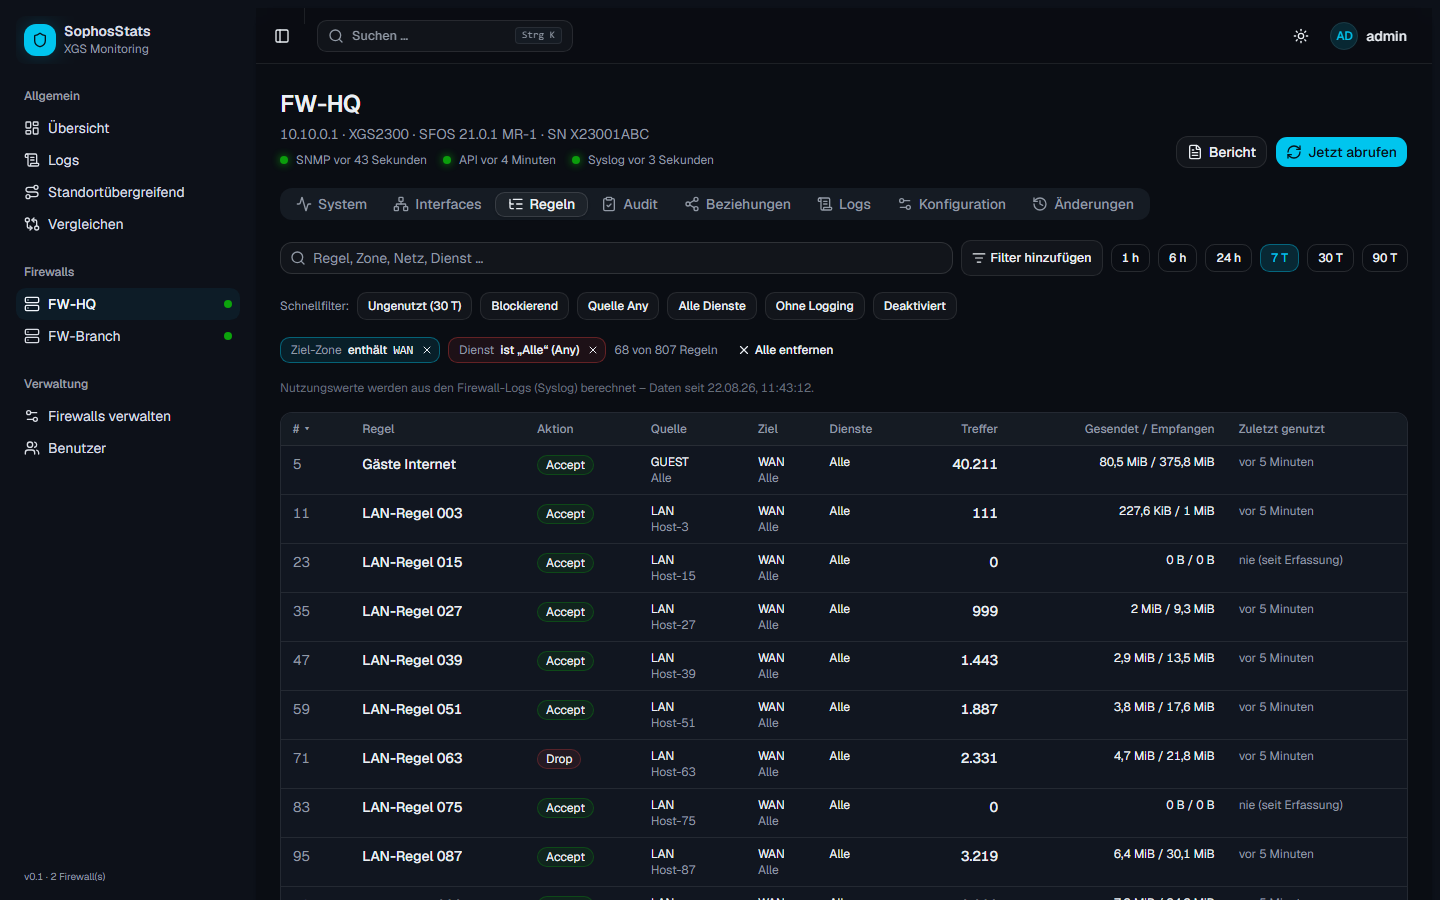
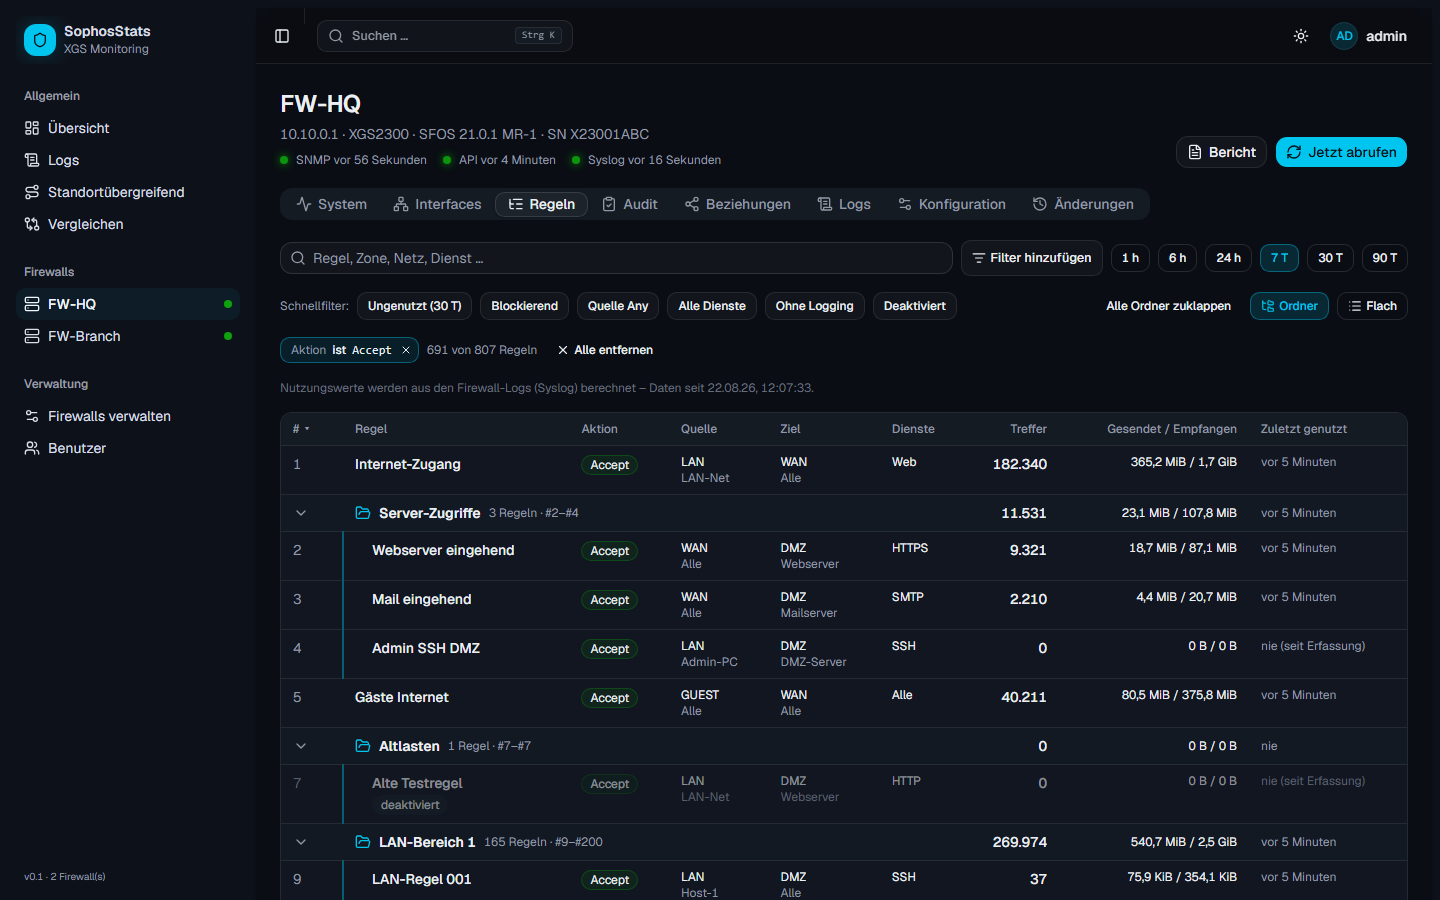
Regeln: Regelgruppen als aufklappbare Ordner
- Ordneransicht wie in der Sophos-Oberfläche mit Summen (Treffer, Bytes,
  zuletzt genutzt) je Ordner; einzeln oder alle auf-/zuklappbar
- Umschalter Ordner/Flach, Wahl wird pro Nutzer im Browser gemerkt
- Sortierung nach Nutzung sortiert innerhalb der Ordner, Ordner nach Summe

diff --git a/frontend/src/pages/firewall/RulesTab.tsx b/frontend/src/pages/firewall/RulesTab.tsx
@@ -1,10 +1,12 @@
 import { useQuery } from "@tanstack/react-query";
-import { Search, X } from "lucide-react";
+import { ChevronRight, Folder, FolderOpen, FolderTree, List, Search, X } from "lucide-react";
 import { Fragment, useMemo, useState } from "react";
 import { useSearchParams } from "react-router";
 import { AddRuleFilter, matchRule, PRESETS, RuleFilterChip, type RuleFilter } from "@/components/RuleFilters";
 import { Button } from "@/components/ui/button";
 import { Input } from "@/components/ui/input";
+import { ToggleGroup, ToggleGroupItem } from "@/components/ui/toggle-group";
+import { cn } from "@/lib/utils";
 import { TimeChart, type Row } from "../../components/TimeChart";
 import { Card, Empty, ErrorBox, Loading, Pill, RangeSelect } from "../../components/ui";
 import { api } from "../../lib/api";
@@ -28,6 +30,24 @@ function parseFilters(raw: string | null): RuleFilter[] {
 export function RulesTab({ fwId }: { fwId: number }) {
   const [hours, setHours] = useState(168);
   const [sort, setSort] = useState<SortKey>("position");
+  // Regelgruppen (Ordner in der Sophos-Oberfläche) als aufklappbare Abschnitte
+  // Ansicht pro Nutzer im Browser merken (Ordner oder flache Liste)
+  const [folders, setFoldersState] = useState(() => {
+    try {
+      return localStorage.getItem("rules.view") !== "flat";
+    } catch {
+      return true;
+    }
+  });
+  const setFolders = (v: boolean) => {
+    setFoldersState(v);
+    try {
+      localStorage.setItem("rules.view", v ? "folders" : "flat");
+    } catch {
+      /* Speicher nicht verfügbar – gilt dann nur für diese Sitzung */
+    }
+  };
+  const [collapsed, setCollapsed] = useState<Set<string>>(new Set());
   // Suche und Filter in der URL – teilbar, bleiben beim Tab-Wechsel erhalten
   const [params, setParams] = useSearchParams();
   const search = params.get("rq") ?? "";
@@ -89,6 +109,122 @@ export function RulesTab({ fwId }: { fwId: number }) {
     </th>
   );
 
+  const grouped = folders;
+  const NO_FOLDER = "Ohne Ordner";
+  const segments: { group: string | null; rules: Rule[] }[] = [];
+  if (sort === "position") {
+    // Reihenfolge wie auf der Firewall: aufeinanderfolgende Regeln derselben Gruppe bilden einen Ordner
+    for (const r of rules) {
+      const last = segments.at(-1);
+      if (r.group && last && last.group === r.group) last.rules.push(r);
+      else segments.push({ group: r.group ?? null, rules: [r] });
+    }
+  } else {
+    // Nach Nutzung: innerhalb der Ordner sortiert, Ordner nach ihrer Summe; Regeln ohne Gruppe in "Ohne Ordner"
+    const byGroup = new Map<string, Rule[]>();
+    for (const r of rules) byGroup.set(r.group ?? NO_FOLDER, [...(byGroup.get(r.group ?? NO_FOLDER) ?? []), r]);
+    const score = (list: Rule[]) =>
+      sort === "hits"
+        ? list.reduce((a, r) => a + (r.usage?.hits ?? 0), 0)
+        : sort === "bytes"
+          ? list.reduce((a, r) => a + totalBytes(r), 0)
+          : Math.max(0, ...list.map((r) => (r.last_seen_ever ? new Date(r.last_seen_ever).getTime() : 0)));
+    for (const [group, list] of [...byGroup].sort((a, b) => score(b[1]) - score(a[1]))) segments.push({ group, rules: list });
+  }
+  const groupNames = [...new Set(segments.filter((g) => g.group).map((g) => g.group!))];
+  const toggleGroup = (g: string) =>
+    setCollapsed((prev) => {
+      const next = new Set(prev);
+      if (next.has(g)) next.delete(g);
+      else next.add(g);
+      return next;
+    });
+
+  const renderRule = (r: Rule, nested: boolean) => (
+                  <Fragment key={`${r.group ?? ""}|${r.name}`}>
+                    <tr
+                      className={`cursor-pointer border-t border-border align-top hover:bg-muted ${r.enabled ? "" : "opacity-55"}`}
+                      onClick={() => setOpen(open === r.name ? null : r.name)}
+                    >
+                      <td className="px-3 py-2 text-muted-foreground">{r.position + 1}</td>
+                      <td className={cn("max-w-64 px-3 py-2", nested && "border-l-2 border-l-primary/40 pl-7")}>
+                        <div className="font-medium">{r.name}</div>
+                        <div className="flex flex-wrap gap-1 pt-0.5">
+                          {r.group && !nested && <Pill>{r.group}</Pill>}
+                          {!r.enabled && <Pill>deaktiviert</Pill>}
+                          {r.enabled && !r.log_traffic && <Pill>Logging aus</Pill>}
+                          {r.policy_type && r.policy_type !== "Network" && <Pill>{r.policy_type}</Pill>}
+                        </div>
+                      </td>
+                      <td className="px-3 py-2">
+                        <Pill tone={r.action === "Accept" ? "good" : r.action ? "critical" : "neutral"}>{r.action ?? "–"}</Pill>
+                      </td>
+                      <td className="max-w-48 px-3 py-2 text-xs">
+                        <div>{list(r.source_zones)}</div>
+                        <div className="text-muted-foreground">{list(r.source_networks)}</div>
+                      </td>
+                      <td className="max-w-48 px-3 py-2 text-xs">
+                        <div>{list(r.destination_zones)}</div>
+                        <div className="text-muted-foreground">{list(r.destination_networks)}</div>
+                      </td>
+                      <td className="max-w-40 px-3 py-2 text-xs">{list(r.services)}</td>
+                      <td className="px-3 py-2 text-right font-medium">{fmtNumber(r.usage?.hits ?? 0)}</td>
+                      <td className="whitespace-nowrap px-3 py-2 text-right text-xs">
+                        {fmtBytes(r.usage?.sent_bytes ?? 0)} / {fmtBytes(r.usage?.recv_bytes ?? 0)}
+                      </td>
+                      <td className="whitespace-nowrap px-3 py-2 text-xs text-muted-foreground" title={fmtDate(r.last_seen_ever)}>
+                        {r.last_seen_ever ? fmtRelative(r.last_seen_ever) : "nie (seit Erfassung)"}
+                      </td>
+                    </tr>
+                    {open === r.name && (
+                      <tr className="border-t border-border bg-muted">
+                        <td colSpan={9} className="p-3">
+                          {r.rule_id == null ? (
+                            <div className="text-sm text-muted-foreground/70">
+                              Für diese Regel wurden noch keine Logs empfangen – Nutzungsdetails erscheinen, sobald Traffic geloggt wird.
+                            </div>
+                          ) : (
+                            <RuleDetail fwId={fwId} ruleId={r.rule_id} hours={hours} />
+                          )}
+                        </td>
+                      </tr>
+                    )}
+                  </Fragment>
+  );
+
+  const renderSegment = (seg: { group: string | null; rules: Rule[] }, i: number) => {
+    if (!seg.group) return seg.rules.map((r) => renderRule(r, false));
+    const isOpen = !collapsed.has(seg.group);
+    const sum = (f: (r: Rule) => number) => seg.rules.reduce((a, r) => a + f(r), 0);
+    const last = seg.rules.map((r) => r.last_seen_ever).filter(Boolean).sort().at(-1);
+    const Icon = isOpen ? FolderOpen : Folder;
+    return (
+      <Fragment key={`seg-${seg.group}-${i}`}>
+        <tr className="cursor-pointer border-t border-border bg-muted/50 hover:bg-muted" onClick={() => toggleGroup(seg.group!)}>
+          <td className="px-3 py-2 text-muted-foreground">
+            <ChevronRight className={cn("size-4 transition-transform", isOpen && "rotate-90")} />
+          </td>
+          <td colSpan={5} className="px-3 py-2">
+            <span className="flex items-center gap-2 font-semibold">
+              <Icon className="size-4 text-primary" />
+              {seg.group}
+              <span className="text-xs font-normal text-muted-foreground">
+                {seg.rules.length} Regel{seg.rules.length === 1 ? "" : "n"}
+                {sort === "position" && ` · #${seg.rules[0].position + 1}–#${seg.rules.at(-1)!.position + 1}`}
+              </span>
+            </span>
+          </td>
+          <td className="px-3 py-2 text-right font-medium tabular-nums">{fmtNumber(sum((r) => r.usage?.hits ?? 0))}</td>
+          <td className="whitespace-nowrap px-3 py-2 text-right text-xs tabular-nums">
+            {fmtBytes(sum((r) => r.usage?.sent_bytes ?? 0))} / {fmtBytes(sum((r) => r.usage?.recv_bytes ?? 0))}
+          </td>
+          <td className="whitespace-nowrap px-3 py-2 text-xs text-muted-foreground">{last ? fmtRelative(last) : "nie"}</td>
+        </tr>
+        {isOpen && seg.rules.map((r) => renderRule(r, true))}
+      </Fragment>
+    );
+  };
+
   return (
     <div className="space-y-4">
       <div className="flex flex-wrap items-center gap-2">
@@ -106,7 +242,35 @@ export function RulesTab({ fwId }: { fwId: number }) {
             {p.label}
           </Button>
         ))}
+        <div className="ml-auto flex items-center gap-2">
+          {grouped && groupNames.length > 0 && (
+            <Button
+              variant="ghost"
+              size="sm"
+              className="h-7 text-xs"
+              onClick={() => setCollapsed(collapsed.size ? new Set() : new Set(groupNames))}
+            >
+              {collapsed.size ? "Alle Ordner aufklappen" : "Alle Ordner zuklappen"}
+            </Button>
+          )}
+          <ToggleGroup
+            type="single"
+            variant="outline"
+            size="sm"
+            value={folders ? "folders" : "flat"}
+            onValueChange={(v) => {
+              if (!v) return;
+              setFolders(v === "folders");
+            }}
+          >
+            <ToggleGroupItem value="folders" className="px-2.5 text-xs"><FolderTree className="size-3.5" /> Ordner</ToggleGroupItem>
+            <ToggleGroupItem value="flat" className="px-2.5 text-xs"><List className="size-3.5" /> Flach</ToggleGroupItem>
+          </ToggleGroup>
+        </div>
       </div>
+      {folders && sort !== "position" && (
+        <p className="text-xs text-muted-foreground">Sortiert innerhalb der Ordner; Ordner nach ihrer Summe. Nach „#“ sortieren für die Reihenfolge der Firewall.</p>
+      )}
       {(filters.length > 0 || search) && (
         <div className="flex flex-wrap items-center gap-2">
           {filters.map((f, i) => (
@@ -146,57 +310,7 @@ export function RulesTab({ fwId }: { fwId: number }) {
               </tr>
             </thead>
             <tbody>
-              {rules.map((r) => (
-                <Fragment key={r.name}>
-                  <tr
-                    className={`cursor-pointer border-t border-border align-top hover:bg-muted ${r.enabled ? "" : "opacity-55"}`}
-                    onClick={() => setOpen(open === r.name ? null : r.name)}
-                  >
-                    <td className="px-3 py-2 text-muted-foreground">{r.position + 1}</td>
-                    <td className="max-w-64 px-3 py-2">
-                      <div className="font-medium">{r.name}</div>
-                      <div className="flex flex-wrap gap-1 pt-0.5">
-                        {r.group && <Pill>{r.group}</Pill>}
-                        {!r.enabled && <Pill>deaktiviert</Pill>}
-                        {r.enabled && !r.log_traffic && <Pill>Logging aus</Pill>}
-                        {r.policy_type && r.policy_type !== "Network" && <Pill>{r.policy_type}</Pill>}
-                      </div>
-                    </td>
-                    <td className="px-3 py-2">
-                      <Pill tone={r.action === "Accept" ? "good" : r.action ? "critical" : "neutral"}>{r.action ?? "–"}</Pill>
-                    </td>
-                    <td className="max-w-48 px-3 py-2 text-xs">
-                      <div>{list(r.source_zones)}</div>
-                      <div className="text-muted-foreground">{list(r.source_networks)}</div>
-                    </td>
-                    <td className="max-w-48 px-3 py-2 text-xs">
-                      <div>{list(r.destination_zones)}</div>
-                      <div className="text-muted-foreground">{list(r.destination_networks)}</div>
-                    </td>
-                    <td className="max-w-40 px-3 py-2 text-xs">{list(r.services)}</td>
-                    <td className="px-3 py-2 text-right font-medium">{fmtNumber(r.usage?.hits ?? 0)}</td>
-                    <td className="whitespace-nowrap px-3 py-2 text-right text-xs">
-                      {fmtBytes(r.usage?.sent_bytes ?? 0)} / {fmtBytes(r.usage?.recv_bytes ?? 0)}
-                    </td>
-                    <td className="whitespace-nowrap px-3 py-2 text-xs text-muted-foreground" title={fmtDate(r.last_seen_ever)}>
-                      {r.last_seen_ever ? fmtRelative(r.last_seen_ever) : "nie (seit Erfassung)"}
-                    </td>
-                  </tr>
-                  {open === r.name && (
-                    <tr className="border-t border-border bg-muted">
-                      <td colSpan={9} className="p-3">
-                        {r.rule_id == null ? (
-                          <div className="text-sm text-muted-foreground/70">
-                            Für diese Regel wurden noch keine Logs empfangen – Nutzungsdetails erscheinen, sobald Traffic geloggt wird.
-                          </div>
-                        ) : (
-                          <RuleDetail fwId={fwId} ruleId={r.rule_id} hours={hours} />
-                        )}
-                      </td>
-                    </tr>
-                  )}
-                </Fragment>
-              ))}
+              {grouped ? segments.map(renderSegment) : rules.map((r) => renderRule(r, false))}
             </tbody>
           </table>
         </div>

diff --git a/README.md b/README.md
@@ -43,6 +43,7 @@ blockierter Verbindungen über mehrere Standorte.
 
 **Regeln**
 - Alle Firewall-Regeln mit **Treffern, Bytes gesendet/empfangen und „zuletzt genutzt“**, berechnet aus den Logs
+- Regelgruppen als **aufklappbare Ordner** wie in der Sophos-Oberfläche (mit Summen je Ordner) oder als flache Liste, die Wahl wird pro Nutzer gemerkt
 - Kombinierbare Filter (Zonen, Netze, Dienste, „Any“, Aktion, Logging, Treffer, Alter) und Schnellfilter
 - Pro Regel: Verlauf, Top-Quellen/-Ziele/-Ports und ein **Nutzungsprofil**, das zeigt, was die Regel tatsächlich durchlässt
 
@@ -79,7 +80,7 @@ blockierter Verbindungen über mehrere Standorte.
 
 | | |
 |---|---|
-| **System**: Auslastung und Verlauf<br>![System](docs/screenshots/system.png) | **Regeln**: Nutzung und kombinierbare Filter<br>![Regeln](docs/screenshots/rules.png) |
+| **System**: Auslastung und Verlauf<br>![System](docs/screenshots/system.png) | **Regeln**: Ordner, Nutzung und kombinierbare Filter<br>![Regeln](docs/screenshots/rules.png) |
 | **Audit**: Befunde mit Akzeptanz<br>![Audit](docs/screenshots/audit.png) | **Zonen-Matrix**: Regeln je Zonenpaar<br>![Zonen-Matrix](docs/screenshots/zone-matrix.png) |
 | **Beziehungen**: alle Regeln zu einem Objekt<br>![Fokus-Graph](docs/screenshots/graph-focus.png) | **Änderungen**: Diff mit Verursacher<br>![Änderungen](docs/screenshots/changes.png) |
 | **Logs**: Filter per Klick und CIDR<br>![Logs](docs/screenshots/logs.png) | **Standortübergreifend**: wo fehlt die Regel?<br>![Standortübergreifend](docs/screenshots/cross-site.png) |
